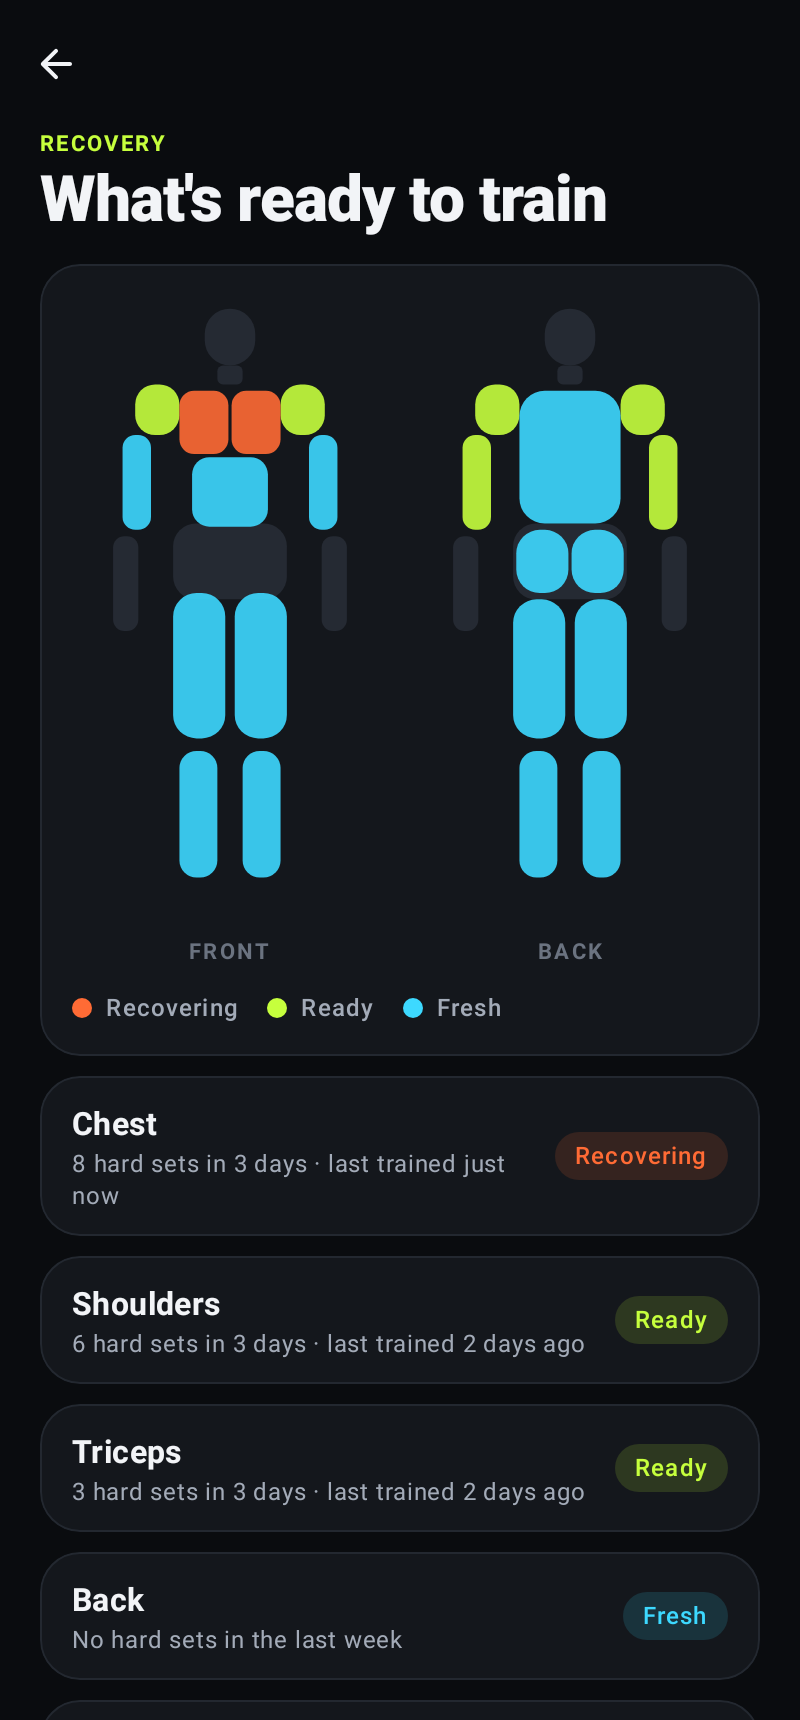
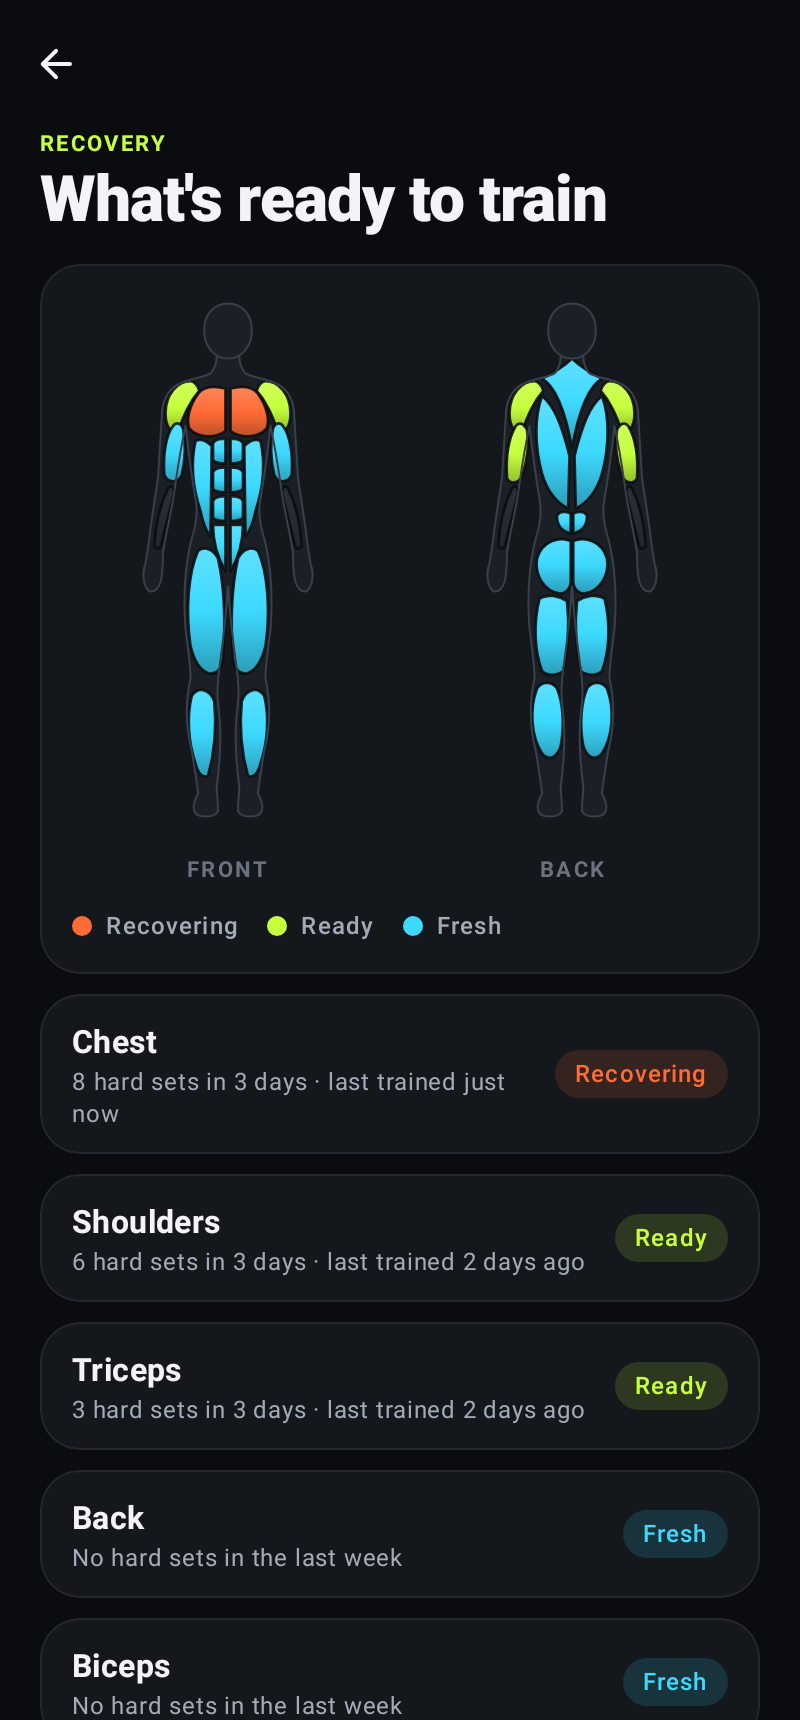
Redesign recovery body map as an anatomical figure
Replace the rounded-rectangle figure with a curved athletic silhouette and
individual muscle shapes (delts, pecs, biceps, six-pack and obliques,
quads, calves; traps, lats, triceps, glutes, hamstrings on the back),
with top-lit shading and separating seams. Same colours and rule.

Claude-Session: https://claude.ai/code/session_015cRfktwZLkxKAQmXRuXTed

diff --git a/app/src/main/java/com/codyphil/liftlog/ui/recovery/BodyMap.kt b/app/src/main/java/com/codyphil/liftlog/ui/recovery/BodyMap.kt
@@ -14,11 +14,15 @@ import androidx.compose.material3.Text
 import androidx.compose.runtime.Composable
 import androidx.compose.ui.Alignment
 import androidx.compose.ui.Modifier
-import androidx.compose.ui.geometry.CornerRadius
 import androidx.compose.ui.geometry.Offset
-import androidx.compose.ui.geometry.Size
+import androidx.compose.ui.graphics.Brush
 import androidx.compose.ui.graphics.Color
+import androidx.compose.ui.graphics.Path
+import androidx.compose.ui.graphics.StrokeCap
+import androidx.compose.ui.graphics.StrokeJoin
 import androidx.compose.ui.graphics.drawscope.DrawScope
+import androidx.compose.ui.graphics.drawscope.Stroke
+import androidx.compose.ui.graphics.drawscope.scale
 import androidx.compose.ui.unit.Dp
 import androidx.compose.ui.unit.dp
 import com.codyphil.liftlog.data.Muscle
@@ -32,33 +36,206 @@ fun RecoveryStatus.color(): Color = when (this) {
     RecoveryStatus.FRESH -> Brand.Ice
 }
 
-/** A region of the figure in fractions of the canvas: x, y, width, height, and which muscle colours it. */
-private data class Region(val x: Float, val y: Float, val w: Float, val h: Float, val muscle: Muscle?, val round: Float = 0.45f)
+// ---------------------------------------------------------------------------------------------
+// Figure geometry. Everything is drawn in a 200 × 440 design space and scaled to the canvas.
+// Shapes are described for the figure's left side (viewer's left) and mirrored around x = 100.
+// ---------------------------------------------------------------------------------------------
 
-private val skeleton = listOf(
-    Region(0.42f, 0.02f, 0.16f, 0.09f, null, 1f),            // head
-    Region(0.46f, 0.11f, 0.08f, 0.03f, null, 0.3f),          // neck
-    Region(0.32f, 0.36f, 0.36f, 0.12f, null, 0.3f),          // hips
-    Region(0.13f, 0.38f, 0.08f, 0.15f, null),                // forearm L
-    Region(0.79f, 0.38f, 0.08f, 0.15f, null),                // forearm R
+private const val W = 200f
+private const val H = 440f
+private const val ASPECT = W / H
+
+/** A tiny path recipe that can be built as-is or mirrored. */
+private class Shape(private val ops: List<FloatArray>) {
+    fun path(mirror: Boolean): Path = Path().apply {
+        fun x(v: Float) = if (mirror) W - v else v
+        ops.forEach { o ->
+            when (o.size) {
+                0 -> close()
+                2 -> if (isEmpty) moveTo(x(o[0]), o[1]) else lineTo(x(o[0]), o[1])
+                6 -> cubicTo(x(o[0]), o[1], x(o[2]), o[3], x(o[4]), o[5])
+            }
+        }
+    }
+}
+
+private class ShapeBuilder {
+    val ops = mutableListOf<FloatArray>()
+    fun p(x: Float, y: Float) { ops += floatArrayOf(x, y) }
+    fun c(x1: Float, y1: Float, x2: Float, y2: Float, x: Float, y: Float) { ops += floatArrayOf(x1, y1, x2, y2, x, y) }
+    fun z() { ops += FloatArray(0) }
+}
+
+private fun shape(block: ShapeBuilder.() -> Unit) = Shape(ShapeBuilder().apply(block).ops)
+
+/** Left half of the body outline, from the top of the neck to the crotch. Mirrored to close the silhouette. */
+private val outlineHalf: List<FloatArray> = ShapeBuilder().apply {
+    p(91f, 47f)
+    c(91f, 54f, 89f, 59f, 86f, 62f)          // side of neck
+    c(80f, 65f, 72f, 66f, 64f, 69f)          // trapezius slope
+    c(54f, 72f, 47f, 82f, 47f, 96f)          // shoulder cap
+    c(46f, 112f, 45f, 128f, 44f, 146f)       // outer upper arm
+    c(42f, 160f, 39f, 176f, 37f, 194f)       // outer forearm
+    c(36f, 202f, 35f, 208f, 34f, 214f)       // wrist
+    c(31f, 222f, 32f, 232f, 37f, 236f)       // hand
+    c(42f, 238f, 46f, 232f, 47f, 224f)
+    c(48f, 216f, 48f, 210f, 48f, 205f)       // inner wrist
+    c(51f, 186f, 56f, 168f, 58f, 150f)       // inner forearm
+    c(60f, 136f, 63f, 118f, 66f, 104f)       // inner upper arm to armpit
+    c(68f, 120f, 70f, 140f, 74f, 162f)       // torso side
+    c(76f, 172f, 75f, 182f, 71f, 194f)       // waist to hip
+    c(66f, 214f, 64f, 240f, 66f, 266f)       // outer thigh
+    c(68f, 282f, 70f, 296f, 70f, 306f)       // knee
+    c(66f, 324f, 66f, 344f, 71f, 364f)       // outer calf
+    c(73f, 376f, 75f, 388f, 76f, 398f)       // ankle
+    c(72f, 406f, 70f, 414f, 78f, 416f)       // foot
+    c(84f, 417f, 90f, 416f, 92f, 412f)
+    c(92f, 404f, 91f, 398f, 91f, 392f)       // inner ankle
+    c(94f, 370f, 95f, 346f, 92f, 326f)       // inner calf
+    c(91f, 316f, 92f, 306f, 93f, 298f)       // inner knee
+    c(97f, 270f, 99f, 248f, 100f, 232f)      // inner thigh to crotch
+}.ops
+
+/** Each half closed along the centre line, for filling. */
+private fun halfFill(mirror: Boolean) = Shape(outlineHalf).path(mirror).apply { lineTo(100f, 232f); lineTo(100f, 47f); close() }
+/** The outer edge only, for the outline stroke. */
+private fun halfEdge(mirror: Boolean) = Shape(outlineHalf).path(mirror)
+
+private val head = shape {
+    p(100f, 6f)
+    c(112f, 6f, 120f, 16f, 119f, 30f)
+    c(118f, 42f, 110f, 50f, 100f, 50f)
+    c(90f, 50f, 82f, 42f, 81f, 30f)
+    c(80f, 16f, 88f, 6f, 100f, 6f)
+    z()
+}
+
+// ---- Front muscles (left side; mirrored) ----
+private val frontDelt = shape {
+    p(70f, 68f); c(60f, 68f, 50f, 78f, 50f, 94f); c(50f, 104f, 54f, 110f, 60f, 108f)
+    c(64f, 98f, 68f, 86f, 77f, 76f); c(76f, 72f, 74f, 69f, 70f, 68f); z()
+}
+private val pec = shape {
+    p(98f, 74f); c(90f, 72f, 82f, 72f, 77f, 77f); c(70f, 86f, 66f, 98f, 69f, 106f)
+    c(76f, 114f, 90f, 114f, 98f, 108f); z()
+}
+private val biceps = shape {
+    p(56f, 104f); c(50f, 112f, 48f, 128f, 49f, 143f); c(52f, 150f, 60f, 150f, 63f, 143f)
+    c(66f, 130f, 66f, 116f, 64f, 106f); c(62f, 101f, 58f, 101f, 56f, 104f); z()
+}
+private val forearmFront = shape {
+    p(52f, 154f); c(46f, 166f, 42f, 182f, 41f, 200f); c(44f, 204f, 46f, 202f, 47f, 198f)
+    c(50f, 182f, 55f, 168f, 57f, 156f); c(56f, 152f, 54f, 151f, 52f, 154f); z()
+}
+private val oblique = shape {
+    p(74f, 116f); c(70f, 134f, 72f, 154f, 78f, 172f); c(80f, 182f, 82f, 188f, 86f, 192f)
+    p(87f, 120f); c(83f, 116f, 78f, 114f, 74f, 116f); z()
+}
+/** One ab segment (left column); three rows stacked. */
+private fun abBlock(top: Float, h: Float) = shape {
+    p(98f, top); c(93f, top, 89f, top + 1f, 88f, top + 4f); p(88f, top + h - 3f)
+    c(89f, top + h, 93f, top + h, 98f, top + h); z()
+}
+private val abs = listOf(abBlock(114f, 20f), abBlock(137f, 20f), abBlock(160f, 20f))
+private val lowerAbs = shape {
+    p(98f, 183f); p(88f, 183f); c(88f, 196f, 92f, 210f, 98f, 220f); z()
+}
+private val quad = shape {
+    p(76f, 204f); c(68f, 222f, 66f, 252f, 70f, 280f); c(73f, 292f, 78f, 300f, 85f, 302f)
+    c(91f, 303f, 95f, 298f, 96f, 290f); c(98f, 262f, 97f, 232f, 92f, 210f); c(88f, 202f, 81f, 200f, 76f, 204f); z()
+}
+private val shinCalf = shape {
+    p(71f, 320f); c(67f, 336f, 68f, 356f, 74f, 374f); c(76f, 382f, 80f, 386f, 84f, 384f)
+    c(89f, 366f, 91f, 344f, 89f, 324f); c(85f, 314f, 76f, 312f, 71f, 320f); z()
+}
+
+// ---- Back muscles ----
+private val traps = shape {   // centre piece, drawn unmirrored
+    p(100f, 50f); c(94f, 56f, 86f, 61f, 76f, 66f); c(86f, 72f, 94f, 88f, 100f, 122f)
+    c(106f, 88f, 114f, 72f, 124f, 66f); c(114f, 61f, 106f, 56f, 100f, 50f); z()
+}
+private val rearDelt = frontDelt
+private val lat = shape {
+    p(76f, 80f); c(70f, 96f, 70f, 120f, 76f, 142f); c(80f, 156f, 88f, 166f, 97f, 170f)
+    p(98f, 128f); c(92f, 104f, 86f, 88f, 76f, 80f); z()
+}
+private val lowerBack = shape {
+    p(99f, 174f); c(94f, 172f, 90f, 172f, 88f, 176f); c(88f, 182f, 90f, 188f, 99f, 190f); z()
+}
+private val triceps = shape {
+    p(55f, 104f); c(49f, 114f, 47f, 130f, 48f, 146f); c(51f, 151f, 57f, 150f, 60f, 144f)
+    c(64f, 132f, 66f, 118f, 64f, 107f); c(61f, 101f, 57f, 101f, 55f, 104f); z()
+}
+private val forearmBack = forearmFront
+private val glute = shape {
+    p(99f, 196f); c(90f, 192f, 76f, 196f, 72f, 210f); c(70f, 224f, 78f, 236f, 90f, 238f)
+    c(95f, 238f, 99f, 234f, 99f, 228f); z()
+}
+private val hamstring = shape {
+    p(74f, 242f); c(69f, 262f, 70f, 284f, 76f, 300f); c(80f, 304f, 88f, 304f, 93f, 300f)
+    c(97f, 284f, 98f, 262f, 96f, 244f); c(90f, 240f, 80f, 238f, 74f, 242f); z()
+}
+private val calfBack = shape {
+    p(72f, 314f); c(66f, 330f, 67f, 352f, 76f, 366f); c(81f, 372f, 88f, 370f, 91f, 360f)
+    c(94f, 344f, 93f, 326f, 88f, 314f); c(84f, 308f, 76f, 308f, 72f, 314f); z()
+}
+
+/** (shape, muscle, mirrored-pair?) — null muscle = untracked, drawn in the neutral tone. */
+private data class Part(val shape: Shape, val muscle: Muscle?, val pair: Boolean = true)
+
+private val frontParts = listOf(
+    Part(forearmFront, null), Part(frontDelt, Muscle.SHOULDERS), Part(pec, Muscle.CHEST), Part(biceps, Muscle.BICEPS),
+    Part(oblique, Muscle.CORE), Part(lowerAbs, Muscle.CORE),
+) + abs.map { Part(it, Muscle.CORE) } + listOf(
+    Part(quad, Muscle.QUADS), Part(shinCalf, Muscle.CALVES),
 )
 
-private val front = listOf(
-    Region(0.20f, 0.14f, 0.14f, 0.08f, Muscle.SHOULDERS), Region(0.66f, 0.14f, 0.14f, 0.08f, Muscle.SHOULDERS),
-    Region(0.34f, 0.15f, 0.155f, 0.10f, Muscle.CHEST, 0.3f), Region(0.505f, 0.15f, 0.155f, 0.10f, Muscle.CHEST, 0.3f),
-    Region(0.16f, 0.22f, 0.09f, 0.15f, Muscle.BICEPS), Region(0.75f, 0.22f, 0.09f, 0.15f, Muscle.BICEPS),
-    Region(0.38f, 0.255f, 0.24f, 0.11f, Muscle.CORE, 0.25f),
-    Region(0.32f, 0.47f, 0.165f, 0.23f, Muscle.QUADS), Region(0.515f, 0.47f, 0.165f, 0.23f, Muscle.QUADS),
-    Region(0.34f, 0.72f, 0.12f, 0.20f, Muscle.CALVES), Region(0.54f, 0.72f, 0.12f, 0.20f, Muscle.CALVES),
+private val backParts = listOf(
+    Part(forearmBack, null), Part(traps, Muscle.BACK, pair = false), Part(rearDelt, Muscle.SHOULDERS),
+    Part(lat, Muscle.BACK), Part(lowerBack, Muscle.BACK), Part(triceps, Muscle.TRICEPS),
+    Part(glute, Muscle.GLUTES), Part(hamstring, Muscle.HAMSTRINGS), Part(calfBack, Muscle.CALVES),
 )
 
-private val back = listOf(
-    Region(0.20f, 0.14f, 0.14f, 0.08f, Muscle.SHOULDERS), Region(0.66f, 0.14f, 0.14f, 0.08f, Muscle.SHOULDERS),
-    Region(0.34f, 0.15f, 0.32f, 0.21f, Muscle.BACK, 0.25f),
-    Region(0.16f, 0.22f, 0.09f, 0.15f, Muscle.TRICEPS), Region(0.75f, 0.22f, 0.09f, 0.15f, Muscle.TRICEPS),
-    Region(0.33f, 0.37f, 0.165f, 0.10f, Muscle.GLUTES), Region(0.505f, 0.37f, 0.165f, 0.10f, Muscle.GLUTES),
-    Region(0.32f, 0.48f, 0.165f, 0.22f, Muscle.HAMSTRINGS), Region(0.515f, 0.48f, 0.165f, 0.22f, Muscle.HAMSTRINGS),
-    Region(0.34f, 0.72f, 0.12f, 0.20f, Muscle.CALVES), Region(0.54f, 0.72f, 0.12f, 0.20f, Muscle.CALVES),
+private val BodyBase = Color(0xFF1B1F26)
+private val BodyEdge = Color(0xFF39404B)
+private val Untracked = Color(0xFF2A303A)
+
+@Composable
+private fun Figure(parts: List<Part>, status: Map<Muscle, RecoveryStatus>, modifier: Modifier) {
+    Canvas(modifier) {
+        scale(size.width / W, size.height / H, pivot = Offset.Zero) {
+            drawPath(halfFill(false), BodyBase)
+            drawPath(halfFill(true), BodyBase)
+            drawPath(head.path(false), BodyBase)
+            parts.forEach { part ->
+                val base = part.muscle?.let { status[it] }?.color() ?: Untracked
+                val paths = if (part.pair) listOf(part.shape.path(false), part.shape.path(true)) else listOf(part.shape.path(false))
+                paths.forEach { drawMuscle(it, base, part.muscle != null) }
+            }
+            // Outline last so edges stay crisp over the muscles.
+            drawPath(halfEdge(false), BodyEdge, style = Stroke(1.6f, join = StrokeJoin.Round))
+            drawPath(halfEdge(true), BodyEdge, style = Stroke(1.6f, join = StrokeJoin.Round))
+            drawPath(head.path(false), BodyEdge, style = Stroke(1.6f))
+        }
+    }
+}
+
+/** A muscle with a top-lit gradient for depth and a dark seam separating it from its neighbours. */
+private fun DrawScope.drawMuscle(path: Path, color: Color, tracked: Boolean) {
+    val bounds = path.getBounds()
+    val brush = if (tracked) Brush.verticalGradient(
+        listOf(lerp(color, Color.White, 0.18f), color, lerp(color, Color.Black, 0.28f)),
+        startY = bounds.top, endY = bounds.bottom,
+    ) else Brush.verticalGradient(listOf(color, lerp(color, Color.Black, 0.2f)), startY = bounds.top, endY = bounds.bottom)
+    drawPath(path, brush)
+    drawPath(path, Brand.Ink.copy(alpha = 0.85f), style = Stroke(2.2f, cap = StrokeCap.Round, join = StrokeJoin.Round))
+}
+
+private fun lerp(a: Color, b: Color, t: Float) = Color(
+    red = a.red + (b.red - a.red) * t,
+    green = a.green + (b.green - a.green) * t,
+    blue = a.blue + (b.blue - a.blue) * t,
+    alpha = a.alpha,
 )
 
 /**
@@ -67,35 +244,20 @@ private val back = listOf(
  */
 @Composable
 fun BodyMap(status: Map<Muscle, RecoveryStatus>, modifier: Modifier = Modifier, figureHeight: Dp? = null) {
-    Row(modifier.fillMaxWidth(), horizontalArrangement = Arrangement.spacedBy(12.dp, Alignment.CenterHorizontally)) {
-        listOf("Front" to front, "Back" to back).forEach { (label, regions) ->
+    Row(modifier.fillMaxWidth(), horizontalArrangement = Arrangement.spacedBy(16.dp, Alignment.CenterHorizontally)) {
+        listOf("Front" to frontParts, "Back" to backParts).forEach { (label, parts) ->
             Column(
                 if (figureHeight == null) Modifier.weight(1f) else Modifier,
                 horizontalAlignment = Alignment.CenterHorizontally,
             ) {
-                val canvasModifier = if (figureHeight == null) Modifier.fillMaxWidth().aspectRatio(0.5f)
-                else Modifier.height(figureHeight).width(figureHeight / 2)
-                Canvas(canvasModifier) {
-                    skeleton.forEach { drawRegion(it, Brand.PanelHigher) }
-                    regions.forEach { r ->
-                        val c = r.muscle?.let { status[it] }?.color() ?: Brand.PanelHigher
-                        drawRegion(r, c.copy(alpha = 0.9f))
-                    }
-                }
+                val m = if (figureHeight == null) Modifier.fillMaxWidth(0.8f).aspectRatio(ASPECT)
+                else Modifier.height(figureHeight).width(figureHeight * ASPECT)
+                Figure(parts, status, m)
                 Spacer(Modifier.height(4.dp))
                 Eyebrow(label)
             }
         }
     }
-}
-
-private fun DrawScope.drawRegion(r: Region, color: Color) {
-    val w = r.w * size.width
-    val h = r.h * size.height
-    drawRoundRect(
-        color, Offset(r.x * size.width, r.y * size.height), Size(w, h),
-        CornerRadius(minOf(w, h) * r.round, minOf(w, h) * r.round),
-    )
 }
 
 @Composable
